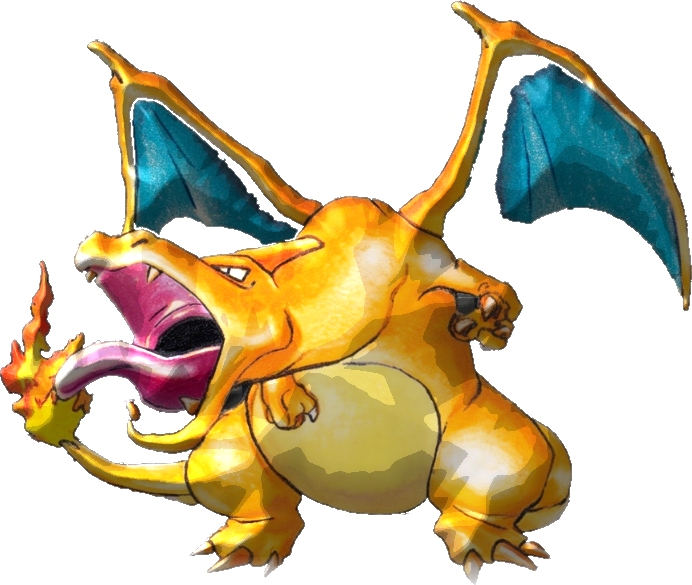
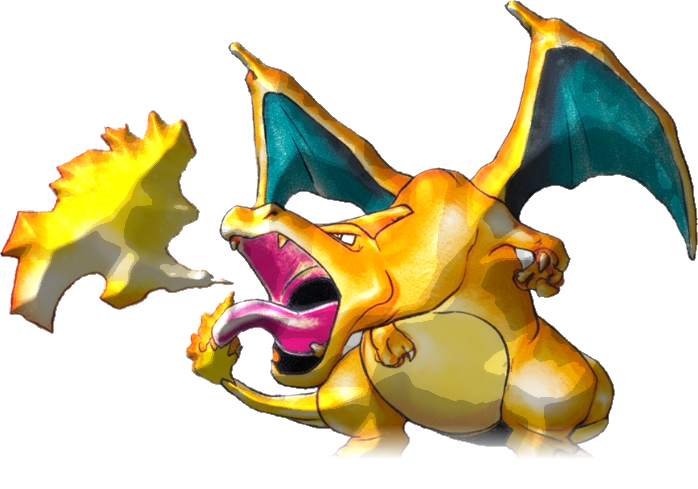
Base Set Charizard: new cut-out with his flame, card with him painted out
Also: don't clear 'trapped checkerboard' inside card scans (it punched a hole in pale text areas).

diff --git a/process.js b/process.js
@@ -109,7 +109,7 @@ window.HoloProcess = (() => {
     // is checkerboard; a white claw or a black shadow is mostly one tone.
     const seen = new Uint8Array(N), minPocket = Math.max(300, N * 0.0008);
     for (let s = 0; s < N; s++) {
-      if (tones.length < 2) break;
+      if (tones.length < 2 || !plain) break; // characters only: a card has no enclosed background
       if (back[s] || seen[s] || !isBg(s)) continue;
       const pocket = [], st = [s];
       let hi = 0, lo = 0;

diff --git a/cards.js b/cards.js
@@ -23,8 +23,8 @@ window.CARDS = [
   {
     name: 'Base Set Charizard',
     art: 'cards/base-charizard.jpg',
-    holo: [12, 10.9, 79, 41.4],
-    glitter: [45, 15, 195, 335],
-    pop: { src: 'cards/base-charizard-pop.png', box: [25.4, 13.6, 67.2, 37.9] },
+    holo: [11.3, 11.1, 79, 40.7],
+    glitter: [45, 15],
+    pop: { src: 'cards/base-charizard-pop.png', box: [7.4, 12.1, 85.1, 42.3] },
   },
 ];
